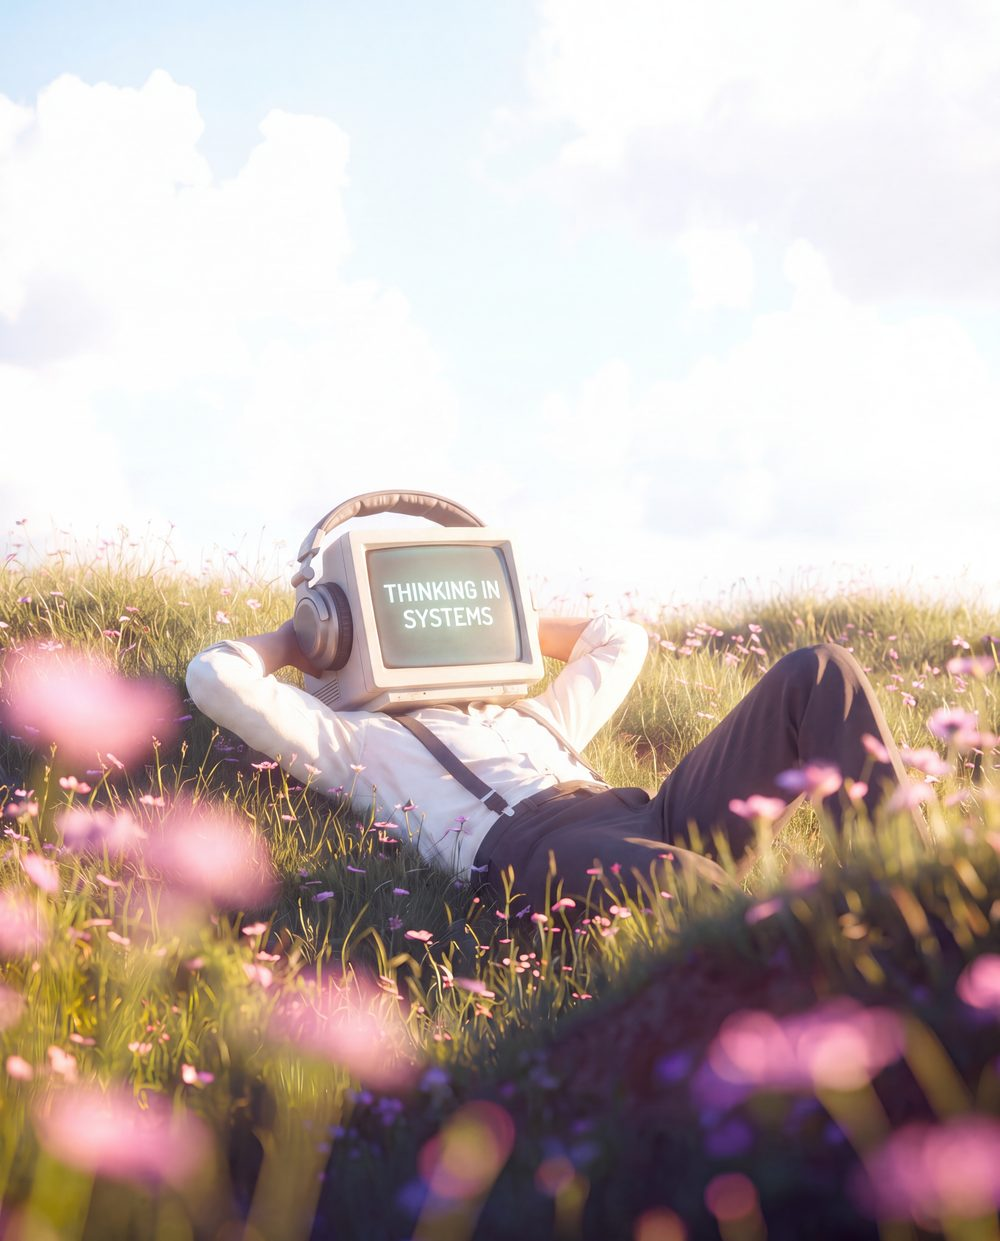
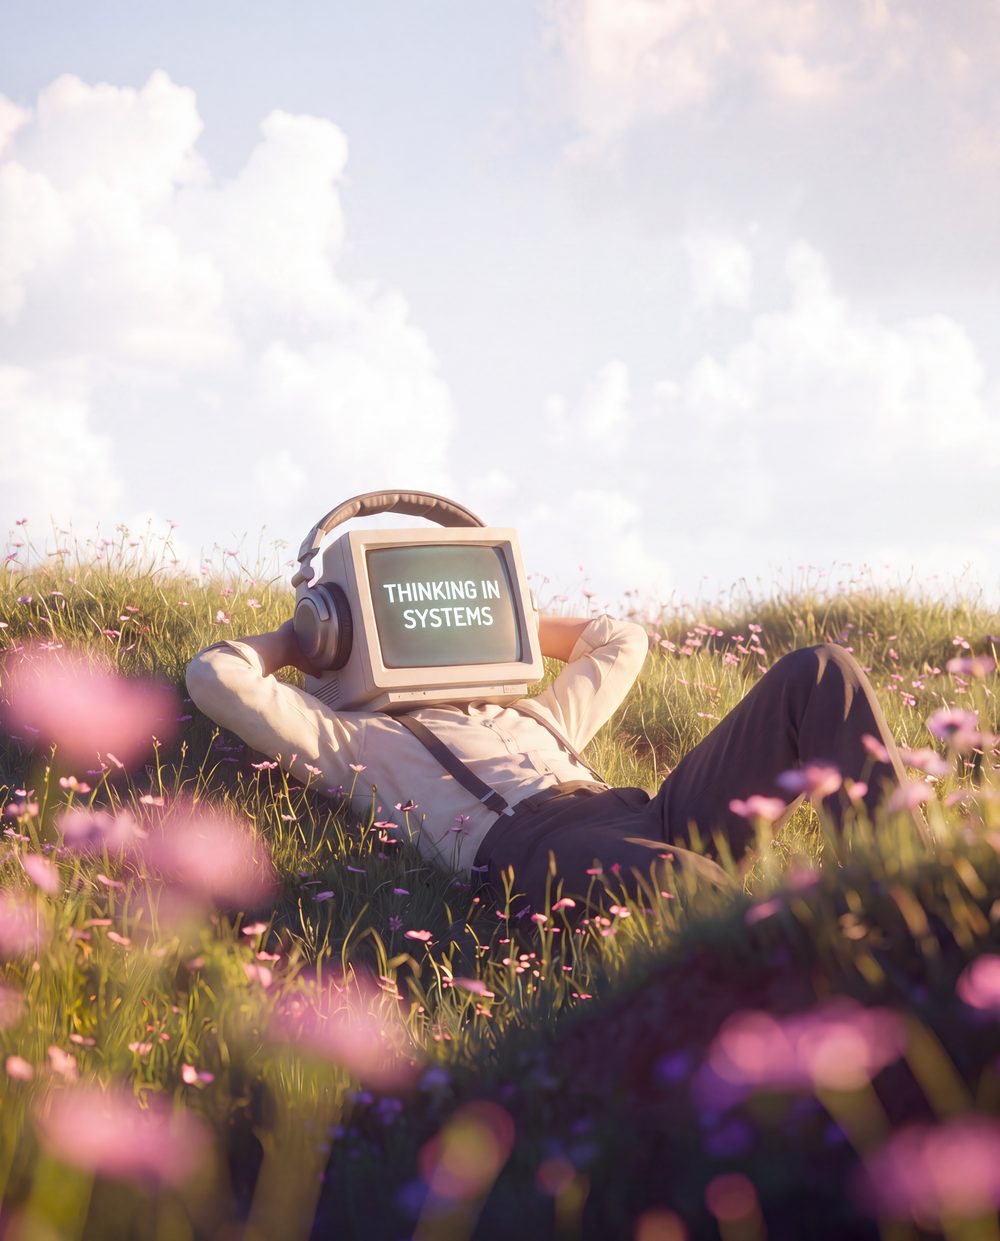
Regenerate the background from the refined image
Rebuilds the landscape and portrait cuts from pc_image_2 and bumps the
image version so browsers and the CDN pick them up.

Claude-Session: https://claude.ai/code/session_012vwdxj5GrfjoW9MjCKBBF1

diff --git a/style.css b/style.css
@@ -48,7 +48,7 @@ body {
   flex-direction: column;
   justify-content: space-between;
   background:
-    url("assets/background.jpg?v=2"),
+    url("assets/background.jpg?v=3"),
     radial-gradient(120% 80% at 50% 12%, #ffffff 0%, rgba(255, 255, 255, 0) 55%),
     linear-gradient(180deg, #dfe9f2 0%, #eef3ee 45%, #e6dfe8 75%, #d8cfdd 100%);
   background-size: cover;
@@ -60,7 +60,7 @@ body {
 @media (max-width: 640px) {
   .desktop {
     background-image:
-      url("assets/background-portrait.jpg?v=2"),
+      url("assets/background-portrait.jpg?v=3"),
       radial-gradient(120% 80% at 50% 12%, #ffffff 0%, rgba(255, 255, 255, 0) 55%),
       linear-gradient(180deg, #dfe9f2 0%, #eef3ee 45%, #e6dfe8 75%, #d8cfdd 100%);
   }
@@ -70,7 +70,7 @@ body {
 @media (min-width: 641px) and (max-width: 900px) {
   .desktop {
     background-image:
-      url("assets/background-small.jpg?v=2"),
+      url("assets/background-small.jpg?v=3"),
       radial-gradient(120% 80% at 50% 12%, #ffffff 0%, rgba(255, 255, 255, 0) 55%),
       linear-gradient(180deg, #dfe9f2 0%, #eef3ee 45%, #e6dfe8 75%, #d8cfdd 100%);
   }

diff --git a/index.html b/index.html
@@ -8,7 +8,7 @@
 <link rel="preconnect" href="https://fonts.gstatic.com" crossorigin>
 <link href="https://fonts.googleapis.com/css2?family=Inter:wght@200;400;500;600&display=swap" rel="stylesheet">
 <!-- Bump ?v= on every deploy so browsers can't serve a stale copy. -->
-<link rel="stylesheet" href="style.css?v=26">
+<link rel="stylesheet" href="style.css?v=27">
 </head>
 <body>
 
@@ -1285,6 +1285,6 @@
 
 </div><!-- /.sheet -->
 
-<script src="main.js?v=26"></script>
+<script src="main.js?v=27"></script>
 </body>
 </html>
